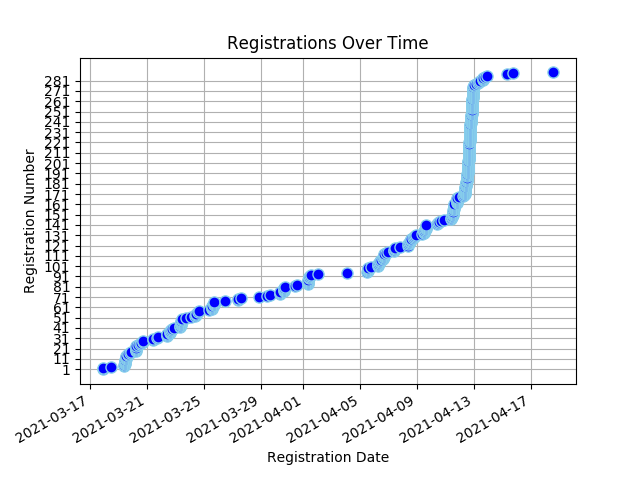
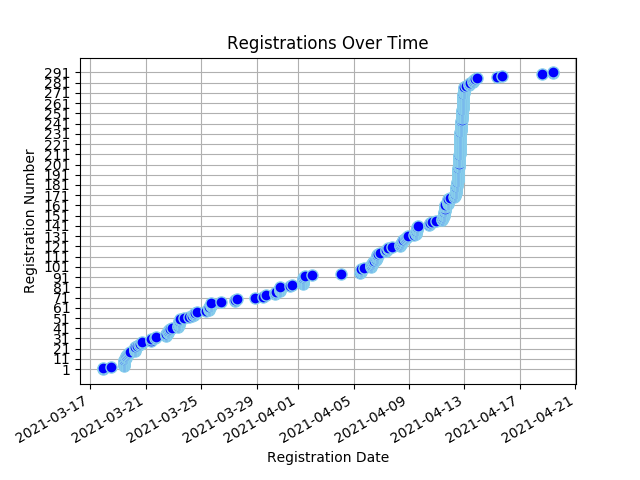
Registree stats backup on Mon 19 Apr 2021 10:15:44 SAST

diff --git a/content/registrees/_index.md b/content/registrees/_index.md
@@ -3,7 +3,7 @@ title: Registration Stats
 draft: false
 ---
 
-<ul><li><strong>Number of Registrees</strong>: 289</li>
+<ul><li><strong>Number of Registrees</strong>: 291</li>
 
 <li><strong>Number of Clubs</strong>: 69</li>
 
@@ -33,6 +33,6 @@ draft: false
         </tr>
     </thead>
     <tbody>
-<tr><td>Natalie Abrahams</td><td>Cape Town</td><td>410W</td></tr><tr><td>Alan Abramsohn</td><td>Milnerton</td><td>410W</td></tr><tr><td>Janine Abramsohn</td><td>Sea Point</td><td>410W</td></tr><tr><td>Rashid Adams</td><td>Athlone</td><td>410W</td></tr><tr><td>Linda Anderson</td><td>George</td><td>410W</td></tr><tr><td>Neale Stewart ANDREWS</td><td>Cowies Hill</td><td>410E</td></tr><tr><td>Linda Baumgarten</td><td>Sea Point</td><td>410W</td></tr><tr><td>Ulrike Behrens</td><td>Windhoek</td><td>410W</td></tr><tr><td>Cathleen Benade</td><td>Rehoboth</td><td>410W</td></tr><tr><td>Valencia Beukes-Williams</td><td>Kuilsriver</td><td>410W</td></tr><tr><td>Belinda Blakeman</td><td>North Durban</td><td>410E</td></tr><tr><td>Mel Boswell</td><td>Nelspruit</td><td>410E</td></tr><tr><td>Lyn(ette) Botha</td><td>Cowies Hill</td><td>410E</td></tr><tr><td>JOSE BRAGA BORGES</td><td>Malmesbury</td><td>410W</td></tr><tr><td>Paul Brauteseth</td><td>Port Shepstone</td><td>410E</td></tr><tr><td>Byron Brooker</td><td>Pretoria South</td><td>410E</td></tr><tr><td>Nelle Buhrmann</td><td>Sea Point</td><td>410W</td></tr><tr><td>Christopher Bull</td><td>The Wilds</td><td>410E</td></tr><tr><td>Karin Byars</td><td>Manzini</td><td>410E</td></tr><tr><td>Herman Cadman</td><td>Stellenbosch</td><td>410W</td></tr><tr><td>Artemis Calomiris</td><td>Helderberg</td><td>410W</td></tr><tr><td>Linda Ann Cannone</td><td>Fish Hoek</td><td>410W</td></tr><tr><td>Petrus Carstens</td><td>Worcester</td><td>410W</td></tr><tr><td>Lizelle Castle</td><td>Athlone</td><td>410W</td></tr><tr><td>Sue Charles</td><td>Tokai</td><td>410W</td></tr><tr><td>Lionel Chazen</td><td>Edenvale</td><td>410E</td></tr><tr><td>Perry Chetty</td><td>East Coast</td><td>410E</td></tr><tr><td>Tanyaradzwa Chinyai</td><td>Groote Schuur</td><td>410W</td></tr><tr><td>Delaney Yeltsin Cloete</td><td>Eden</td><td>410W</td></tr><tr><td>Kate Coppen</td><td>Letaba Tzaneen</td><td>410E</td></tr><tr><td>Esme Cornelius</td><td>Kuilsriver</td><td>410W</td></tr><tr><td>Sharon Cottle</td><td>Groote Schuur</td><td>410W</td></tr><tr><td>Joel d'Offay</td><td>Milnerton</td><td>410W</td></tr><tr><td>Peter Daniel</td><td>Gordons Bay</td><td>410W</td></tr><tr><td>Norma Daniel</td><td>Gordons Bay</td><td>410W</td></tr><tr><td>Melanie Davids</td><td>Alberton</td><td>410E</td></tr><tr><td>Engela de Kock</td><td>Swellendam</td><td>410W</td></tr><tr><td>Francois de Kock</td><td>Swellendam</td><td>410W</td></tr><tr><td>Charlotte de Silva</td><td>Edenvale</td><td>410E</td></tr><tr><td>ANDRE DE VILLIERS</td><td>Malgas</td><td>410W</td></tr><tr><td>Lara De Wet</td><td>Edenvale</td><td>410E</td></tr><tr><td>Benita Diener</td><td>Mitchells Plain</td><td>410W</td></tr><tr><td>Freda Dodd</td><td>Table View</td><td>410W</td></tr><tr><td>Peggy Du Plooy</td><td>Krugersdorp</td><td>410E</td></tr><tr><td>Ivan Du Plooy</td><td>Krugersdorp</td><td>410E</td></tr><tr><td>Tammy du Plooy</td><td>Alberton</td><td>410E</td></tr><tr><td>Marc du Plooy</td><td>Alberton</td><td>410E</td></tr><tr><td>Desiree du Toit</td><td>Ramsgate</td><td>410E</td></tr><tr><td>Hanè Dunn</td><td>Swellendam</td><td>410W</td></tr><tr><td>Glynn Easton</td><td>Helderkruin</td><td>410E</td></tr><tr><td>Denise Easton</td><td>Helderkruin</td><td>410E</td></tr><tr><td>Johan Els</td><td>Wilro Park</td><td>410E</td></tr><tr><td>Fadia Ely</td><td>Athlone</td><td>410W</td></tr><tr><td>Abubakr Ely</td><td>Deep South</td><td>410W</td></tr><tr><td>Freddie Erasmus</td><td>Uitenhage</td><td>410E</td></tr><tr><td>Natalie Etridge</td><td>Sedgefield</td><td>410W</td></tr><tr><td>AIDAN Ewers</td><td>Newlands</td><td>410W</td></tr><tr><td>Roger Fahrbach</td><td>Windhoek</td><td>410W</td></tr><tr><td>Beate Fahrbach</td><td>Windhoek</td><td>410W</td></tr><tr><td>Jules Flanagan</td><td>Tokai</td><td>410W</td></tr><tr><td>Charles Flanagan</td><td>Tokai</td><td>410W</td></tr><tr><td>Jéan Fouché</td><td>Worcester</td><td>410W</td></tr><tr><td>Michele Fourie</td><td>Merriman</td><td>410W</td></tr><tr><td>Lucille Fourie</td><td>Alberton</td><td>410E</td></tr><tr><td>Clive Fox</td><td>Merriman</td><td>410W</td></tr><tr><td>Pat Fox</td><td>Merriman</td><td>410W</td></tr><tr><td>Kelvin Foxcroft</td><td>Helderkruin</td><td>410E</td></tr><tr><td>Jenny Foxcroft</td><td>Helderkruin</td><td>410E</td></tr><tr><td>Katherine Foxcroft</td><td>Helderkruin</td><td>410E</td></tr><tr><td>Martin Froise</td><td>Letaba Tzaneen</td><td>410E</td></tr><tr><td>Allison Georges</td><td>Cape Of Good Hope</td><td>410W</td></tr><tr><td>Bernd Gerhard</td><td>Wilro Park</td><td>410E</td></tr><tr><td>Shirley Gerhard</td><td>Wilro Park</td><td>410E</td></tr><tr><td>Valerie Graham</td><td>Nelspruit</td><td>410E</td></tr><tr><td>Mike Graham</td><td>Nelspruit</td><td>410E</td></tr><tr><td>Viv Grater</td><td>Sedgefield</td><td>410W</td></tr><tr><td>Brian Gray</td><td>Durbanville</td><td>410W</td></tr><tr><td>David Griffith</td><td>The Wilds</td><td>410E</td></tr><tr><td>Matty Grobler</td><td>Henties Bay</td><td>410W</td></tr><tr><td>Christiana Groenewoud</td><td>Milnerton</td><td>410W</td></tr><tr><td>Mattheus Groves</td><td>Sedgefield</td><td>410W</td></tr><tr><td>Glyn Gunter</td><td>Malmesbury</td><td>410W</td></tr><tr><td>Clint Guthrie</td><td>Pretoria South</td><td>410E</td></tr><tr><td>Barbara Haywood</td><td>Eden</td><td>410W</td></tr><tr><td>Mike Heathcote</td><td>Port Shepstone</td><td>410E</td></tr><tr><td>Zarina Hendricks</td><td>Athlone</td><td>410W</td></tr><tr><td>ELIZABETH Hendriks</td><td>Table View</td><td>410W</td></tr><tr><td>MBULELO HERMANUS</td><td>Alberton</td><td>410E</td></tr><tr><td>Evelyn Herzfeld</td><td>Edenvale</td><td>410E</td></tr><tr><td>Dorothy Hess</td><td>Kuilsriver</td><td>410W</td></tr><tr><td>Wendy Higgins</td><td>Wilro Park</td><td>410E</td></tr><tr><td>Avril Hobbs</td><td>North Durban</td><td>410E</td></tr><tr><td>Trevor Hobbs</td><td>North Durban</td><td>410E</td></tr><tr><td>Jacqui Hocking</td><td>Midrand</td><td>410E</td></tr><tr><td>Cliff Hocking</td><td>Midrand</td><td>410E</td></tr><tr><td>Ellen G W Hoffmann</td><td>Windhoek</td><td>410W</td></tr><tr><td>KEITH ALEXANDER HOLLIMAN</td><td>Alberton</td><td>410E</td></tr><tr><td>Liz Houston</td><td>Table View</td><td>410W</td></tr><tr><td>John Houston</td><td>Table View</td><td>410W</td></tr><tr><td>Johan Huysamen</td><td>Malmesbury</td><td>410W</td></tr><tr><td>Alna Jackson</td><td>Pretoria Jakaranda</td><td>410E</td></tr><tr><td>Dawid Jacobs</td><td>Durbanville</td><td>410W</td></tr><tr><td>Jean Jacobs</td><td>Mitchells Plain</td><td>410W</td></tr><tr><td>WOLSLEY Jacobson</td><td>Cape Town</td><td>410W</td></tr><tr><td>Tristan Jeniker</td><td>Merriman</td><td>410W</td></tr><tr><td>MALCOLM JOHNSTON</td><td>Standerton</td><td>410E</td></tr><tr><td>Grant Jonathan</td><td>Gordons Bay</td><td>410W</td></tr><tr><td>Jos Kahn</td><td>Ceres</td><td>410W</td></tr><tr><td>Michelle Kahn</td><td>Sea Point</td><td>410W</td></tr><tr><td>Nico Kaiyamo</td><td>Tsumeb</td><td>410W</td></tr><tr><td>Faezal Karriem</td><td>Worcester</td><td>410W</td></tr><tr><td>Amanda Kemp</td><td>Milnerton</td><td>410W</td></tr><tr><td>Esmeralda Catherine Kennel</td><td>Newlands</td><td>410W</td></tr><tr><td>Jerome Kern</td><td>Groote Schuur</td><td>410W</td></tr><tr><td>Hassan Khan</td><td>Kirstenbosch</td><td>410W</td></tr><tr><td>Faniso Khoza</td><td>The Wilds</td><td>410E</td></tr><tr><td>Margie Kienast</td><td>Edenvale</td><td>410E</td></tr><tr><td>Joyce Kimari</td><td>Eden</td><td>410E</td></tr><tr><td>Ian King</td><td>Alberton</td><td>410E</td></tr><tr><td>Sandy King</td><td>Alberton</td><td>410E</td></tr><tr><td>Christa Koekemoer</td><td>Letaba Tzaneen</td><td>410E</td></tr><tr><td>Alton Koenze</td><td>Worcester</td><td>410W</td></tr><tr><td>Muya Koloko</td><td>Durbanville</td><td>410W</td></tr><tr><td>Zwaai Kruger</td><td>Sedgefield</td><td>410W</td></tr><tr><td>Pieter Kruger</td><td>Wilro Park</td><td>410E</td></tr><tr><td>Niqula Kruger</td><td>Wilro Park</td><td>410E</td></tr><tr><td>Bettina Kröning</td><td>Windhoek</td><td>410W</td></tr><tr><td>Natalie Laas</td><td>Alberton</td><td>410E</td></tr><tr><td>Susan Labuschagne</td><td>Wilro Park</td><td>410E</td></tr><tr><td>Bevil Lakay</td><td>Mitchells Plain</td><td>410W</td></tr><tr><td>Paula Lang</td><td>Gordons Bay</td><td>410W</td></tr><tr><td>Jimmy Lang</td><td>Gordons Bay</td><td>410W</td></tr><tr><td>Elke Langmaak</td><td>Windhoek</td><td>410W</td></tr><tr><td>Kai Langmaak</td><td>Windhoek</td><td>410W</td></tr><tr><td>Evelyn May Langton</td><td>Alberton</td><td>410E</td></tr><tr><td>Herman Laubscher</td><td>Ceres</td><td>410W</td></tr><tr><td>Steven Lautenbach</td><td>Pretoria South</td><td>410E</td></tr><tr><td>leandre layman</td><td>Groote Schuur</td><td>410W</td></tr><tr><td>Jeanette le Roux</td><td>Gonubie</td><td>410E</td></tr><tr><td>Heather Lee</td><td>Cape Of Good Hope</td><td>410W</td></tr><tr><td>Graeme Logan</td><td>Pretoria South</td><td>410E</td></tr><tr><td>Erika Louw</td><td>Durbanville</td><td>410W</td></tr><tr><td>Dee Love</td><td>Cowies Hill</td><td>410E</td></tr><tr><td>Rashmiya Lucas</td><td>Mitchells Plain</td><td>410W</td></tr><tr><td>Zarina Luck</td><td>Newcastle</td><td>410E</td></tr><tr><td>Pam MacRobert</td><td>Groote Schuur</td><td>410W</td></tr><tr><td>Sharon Mangwende</td><td>Cape Town</td><td>410W</td></tr><tr><td>Richard MARCHANT</td><td>The Wilds</td><td>410E</td></tr><tr><td>Beaulieu Mare</td><td>Benoni Lakes</td><td>410E</td></tr><tr><td>Nick Maré</td><td>Benoni Lakes</td><td>410E</td></tr><tr><td>Jean Masson</td><td>Port Shepstone</td><td>410E</td></tr><tr><td>LANCE MAYTHAM</td><td>Swellendam</td><td>410W</td></tr><tr><td>ROSEMARIE MAYTHAM</td><td>Swellendam</td><td>410W</td></tr><tr><td>David Mccullough</td><td>Pretoria South</td><td>410E</td></tr><tr><td>Rochelle McDonald</td><td>Vereeniging</td><td>410E</td></tr><tr><td>Alec McKerrow</td><td>Port Alfred</td><td>410E</td></tr><tr><td>Stuart McPherson</td><td>Newlands</td><td>410W</td></tr><tr><td>Mark Meltzer</td><td>The Wilds</td><td>410E</td></tr><tr><td>Elisa Metz</td><td>Milnerton</td><td>410W</td></tr><tr><td>Denis Meyer</td><td>Port Shepstone</td><td>410E</td></tr><tr><td>Roy Michas</td><td>Midrand</td><td>410E</td></tr><tr><td>Dawn Michas</td><td>Midrand</td><td>410E</td></tr><tr><td>BERNICE MILLS</td><td>Centurion</td><td>410E</td></tr><tr><td>Patrick Mills</td><td>Centurion</td><td>410E</td></tr><tr><td>Cherie Milosevich</td><td>Milnerton</td><td>410W</td></tr><tr><td>Alana Mitchell</td><td>Rustenburg</td><td>410E</td></tr><tr><td>Juan Mitchell</td><td>Rustenburg</td><td>410E</td></tr><tr><td>Virginia Mkhize</td><td>Cape Town</td><td>410W</td></tr><tr><td>Frauke E. Moeller</td><td>Windhoek</td><td>410W</td></tr><tr><td>Bernadine Moses</td><td>Cape Town</td><td>410W</td></tr><tr><td>Brian Mosesd</td><td>Cape Of Good Hope</td><td>410W</td></tr><tr><td>Jacques Mostert</td><td>Merriman</td><td>410W</td></tr><tr><td>Suzanne Murray</td><td>Vereeniging</td><td>410E</td></tr><tr><td>Gary Murray</td><td>Vereeniging</td><td>410E</td></tr><tr><td>Peter Mutschler</td><td>Grootfontein</td><td>410W</td></tr><tr><td>Pieter Myburg</td><td>Wellington</td><td>410W</td></tr><tr><td>Cornette Naude</td><td>Letaba Tzaneen</td><td>410E</td></tr><tr><td>Pieter Nel</td><td>George</td><td>410W</td></tr><tr><td>Tillie Nel</td><td>Eden</td><td>410W</td></tr><tr><td>Theo Nel</td><td>Pretoria South</td><td>410E</td></tr><tr><td>Mike Newlands</td><td>Port Alfred</td><td>410E</td></tr><tr><td>Angela Niehaus</td><td>Bergvliet</td><td>410W</td></tr><tr><td>Rachel Nortjie</td><td>Mitchells Plain</td><td>410W</td></tr><tr><td>PDG Bokkie Oberholzer</td><td>Uitenhage</td><td>410E</td></tr><tr><td>Chris Ocker</td><td>Fish Hoek</td><td>410W</td></tr><tr><td>Jenny Ocker</td><td>Fish Hoek</td><td>410W</td></tr><tr><td>Debra Olivier</td><td>Sedgefield</td><td>410W</td></tr><tr><td>Isabella Stratton Ormandy</td><td>Milnerton</td><td>410W</td></tr><tr><td>Bronwyn Anne Paijmans</td><td>Cowies Hill</td><td>410E</td></tr><tr><td>Teresa Pantoleon</td><td>Vereeniging</td><td>410E</td></tr><tr><td>Maureen Peters</td><td>Ceres</td><td>410W</td></tr><tr><td>Sundru Pillay</td><td>Durbanville</td><td>410W</td></tr><tr><td>Patrick Pillay</td><td>Tygerberg Hills</td><td>410W</td></tr><tr><td>Tracey Polkinghorne</td><td>Kensington</td><td>410E</td></tr><tr><td>Gavin Polkinghorne</td><td>Kensington</td><td>410E</td></tr><tr><td>BRIAN PORTEOUS</td><td>Hibberdene</td><td>410E</td></tr><tr><td>Yvonne  Maureen Poyowe</td><td>Cape Of Good Hope</td><td>410W</td></tr><tr><td>Sheldon Edmund Pretorius</td><td>Merriman</td><td>410W</td></tr><tr><td>Mary-Anne Ras</td><td>Swellendam</td><td>410W</td></tr><tr><td>Leon Jacobus Ras</td><td>Swellendam</td><td>410E</td></tr><tr><td>Hugo Reniers</td><td>Nelspruit</td><td>410E</td></tr><tr><td>Sandy Roman</td><td>Bergvliet</td><td>410W</td></tr><tr><td>Mark Rossouw</td><td>Tokai</td><td>410W</td></tr><tr><td>Andrea Rothner</td><td>Eden</td><td>410W</td></tr><tr><td>Anthonie Petrus Roux</td><td>Moorreesburg</td><td>410W</td></tr><tr><td>Ingrid Russell</td><td>Fish Hoek</td><td>410W</td></tr><tr><td>Rodney Sabatier</td><td>Letaba Tzaneen</td><td>410E</td></tr><tr><td>Sharon Sampie</td><td>Bergvliet</td><td>410W</td></tr><tr><td>Vera Schatz</td><td>Windhoek</td><td>410W</td></tr><tr><td>Frank Schatz</td><td>Windhoek</td><td>410W</td></tr><tr><td>Francis Searle</td><td>Kouga</td><td>410E</td></tr><tr><td>Gloria Searle</td><td>Kouga</td><td>410E</td></tr><tr><td>Ami Sell</td><td>Windhoek</td><td>410W</td></tr><tr><td>Beryl Simpson</td><td>Cape Town</td><td>410W</td></tr><tr><td>Kenlis Sircoulomb</td><td>Windhoek</td><td>410W</td></tr><tr><td>Holger Sircoulomb</td><td>Windhoek</td><td>410W</td></tr><tr><td>Hennie Smeer</td><td>Windhoek</td><td>410W</td></tr><tr><td>Sue Smit</td><td>Centurion</td><td>410E</td></tr><tr><td>Herman Smit</td><td>Swellendam</td><td>410W</td></tr><tr><td>Santie Smit</td><td>Durbanville</td><td>410W</td></tr><tr><td>Jeff Smith</td><td>Port Shepstone</td><td>410E</td></tr><tr><td>Bennie Smith</td><td>Wellington</td><td>410W</td></tr><tr><td>Carmen Dolores Smith</td><td>Tokai</td><td>410W</td></tr><tr><td>David John Smith</td><td>Tokai</td><td>410W</td></tr><tr><td>LYN SNYMAN</td><td>Deep South</td><td>410W</td></tr><tr><td>Diana Sochen</td><td>Sea Point</td><td>410W</td></tr><tr><td>Max Stander</td><td>Port Alfred</td><td>410E</td></tr><tr><td>Ashley Stander</td><td>Krugersdorp</td><td>410E</td></tr><tr><td>Brett Jason Stander</td><td>Krugersdorp</td><td>410E</td></tr><tr><td>TIM STEENBERG</td><td>Wellington</td><td>410W</td></tr><tr><td>Elna Steyn</td><td>Wilro Park</td><td>410E</td></tr><tr><td>RORY stier</td><td>Deep South</td><td>410W</td></tr><tr><td>Patrick Strauss</td><td>Kuilsriver</td><td>410W</td></tr><tr><td>Trevor Sturges</td><td>Midrand</td><td>410E</td></tr><tr><td>Lauryn Talbot</td><td>Benoni Lakes</td><td>410E</td></tr><tr><td>Margaret Thackwell</td><td>Table View</td><td>410W</td></tr><tr><td>Pierre Theron</td><td>Midrand</td><td>410E</td></tr><tr><td>Moira Theron</td><td>Midrand</td><td>410E</td></tr><tr><td>Diane Townsend</td><td>Benoni Lakes</td><td>410E</td></tr><tr><td>Omolayo Toye</td><td>The Wilds</td><td>410E</td></tr><tr><td>David Alex Tshikala</td><td>Athlone</td><td>410W</td></tr><tr><td>Alistair Tuckett</td><td>Roodepoort Clearwater Cyber</td><td>410E</td></tr><tr><td>Rowan Tuckett</td><td>Roodepoort Clearwater Cyber</td><td>410E</td></tr><tr><td>Gail Tuckett</td><td>Roodepoort Clearwater Cyber</td><td>410E</td></tr><tr><td>Jiri Uchytil</td><td>Alberton</td><td>410E</td></tr><tr><td>Tracy Valadao</td><td>Midrand</td><td>410E</td></tr><tr><td>Carl van Blerk</td><td>Eden</td><td>410W</td></tr><tr><td>HILARY LISE VAN BREDA</td><td>Cape Town</td><td>410W</td></tr><tr><td>Marina Van de Merwe</td><td>Malmesbury</td><td>410W</td></tr><tr><td>Ingrid van der Merwe</td><td>Letaba Tzaneen</td><td>410E</td></tr><tr><td>PATRICIA VAN DER MERWE</td><td>East London Port Rex</td><td>410E</td></tr><tr><td>MARINA VAN DER MERWE</td><td>Malmesbury</td><td>410W</td></tr><tr><td>Hennie van der Westhuizen</td><td>Helderberg</td><td>410W</td></tr><tr><td>Sydney van Heerden</td><td>Wilro Park</td><td>410E</td></tr><tr><td>Sandy van Heerden</td><td>Wilro Park</td><td>410E</td></tr><tr><td>Craig van Heerden</td><td>East London Beacon Bay</td><td>410E</td></tr><tr><td>Mark van Heerden</td><td>Pretoria South</td><td>410E</td></tr><tr><td>Riaan Van Niekerk</td><td>Pretoria South</td><td>410E</td></tr><tr><td>Neville Van Rensburg</td><td>Moorreesburg</td><td>410W</td></tr><tr><td>Johan van Rensburg</td><td>Windhoek</td><td>410W</td></tr><tr><td>Anne van Rensburg</td><td>Windhoek</td><td>410W</td></tr><tr><td>Lorna Van Romburgh</td><td>Fish Hoek</td><td>410W</td></tr><tr><td>Jeannie van Wulven</td><td>Tygerberg Hills</td><td>410W</td></tr><tr><td>Alan van Wulven</td><td>Tygerberg Hills</td><td>410W</td></tr><tr><td>Deon van Wulven</td><td>Tygerberg Hills</td><td>410W</td></tr><tr><td>Kim van Wyk</td><td>North Durban</td><td>410E</td></tr><tr><td>Lindie van Wyk</td><td>Pretoria Jakaranda</td><td>410E</td></tr><tr><td>Willem van Wyk</td><td>Midrand</td><td>410E</td></tr><tr><td>Patricia van Wyk</td><td>Pretoria Jakaranda</td><td>410E</td></tr><tr><td>Edith Van Wyk-Nelson</td><td>Kuilsriver</td><td>410W</td></tr><tr><td>Louis Venter</td><td>Letaba Tzaneen</td><td>410E</td></tr><tr><td>Russell Volker</td><td>King William's Town</td><td>410E</td></tr><tr><td>Brian von der Decken</td><td>King William's Town</td><td>410E</td></tr><tr><td>Rinette Von Mollendorf</td><td>Durbanville</td><td>410W</td></tr><tr><td>Rochelle Vorster</td><td>Sedgefield</td><td>410W</td></tr><tr><td>Alastair Warman</td><td>Port Shepstone</td><td>410E</td></tr><tr><td>Allan Watson</td><td>Sea Point</td><td>410W</td></tr><tr><td>Alison Watson</td><td>Sedgefield</td><td>410W</td></tr><tr><td>Johanna Williams</td><td>Mitchells Plain</td><td>410W</td></tr><tr><td>Neville Williamson</td><td>Port Alfred</td><td>410E</td></tr><tr><td>Geila Wills</td><td>Athlone</td><td>410W</td></tr><tr><td>Meredith Wilter-Sturges</td><td>Midrand</td><td>410E</td></tr><tr><td>Joan Woodman</td><td>Mitchells Plain</td><td>410W</td></tr><tr><td>Rocky Wright</td><td>Table View</td><td>410W</td></tr><tr><td>Judy Young</td><td>Durbanville</td><td>410W</td></tr><tr><td>Gerry Young</td><td>Mitchells Plain</td><td>410W</td></tr><tr><td>Leonie Zucker</td><td>Milnerton</td><td>410W</td></tr><tr><td>Leonie Zucker</td><td>Milnerton</td><td>410E</td></tr><tr><td>Michelle ‘t Hart</td><td>Benoni Lakes</td><td>410E</td></tr>
+<tr><td>Natalie Abrahams</td><td>Cape Town</td><td>410W</td></tr><tr><td>Alan Abramsohn</td><td>Milnerton</td><td>410W</td></tr><tr><td>Janine Abramsohn</td><td>Sea Point</td><td>410W</td></tr><tr><td>Rashid Adams</td><td>Athlone</td><td>410W</td></tr><tr><td>Linda Anderson</td><td>George</td><td>410W</td></tr><tr><td>Neale Stewart ANDREWS</td><td>Cowies Hill</td><td>410E</td></tr><tr><td>Linda Baumgarten</td><td>Sea Point</td><td>410W</td></tr><tr><td>Ulrike Behrens</td><td>Windhoek</td><td>410W</td></tr><tr><td>Cathleen Benade</td><td>Rehoboth</td><td>410W</td></tr><tr><td>Valencia Beukes-Williams</td><td>Kuilsriver</td><td>410W</td></tr><tr><td>Belinda Blakeman</td><td>North Durban</td><td>410E</td></tr><tr><td>Mel Boswell</td><td>Nelspruit</td><td>410E</td></tr><tr><td>Lyn(ette) Botha</td><td>Cowies Hill</td><td>410E</td></tr><tr><td>JOSE BRAGA BORGES</td><td>Malmesbury</td><td>410W</td></tr><tr><td>Paul Brauteseth</td><td>Port Shepstone</td><td>410E</td></tr><tr><td>Byron Brooker</td><td>Pretoria South</td><td>410E</td></tr><tr><td>Nelle Buhrmann</td><td>Sea Point</td><td>410W</td></tr><tr><td>Christopher Bull</td><td>The Wilds</td><td>410E</td></tr><tr><td>Karin Byars</td><td>Manzini</td><td>410E</td></tr><tr><td>Herman Cadman</td><td>Stellenbosch</td><td>410W</td></tr><tr><td>Artemis Calomiris</td><td>Helderberg</td><td>410W</td></tr><tr><td>Linda Ann Cannone</td><td>Fish Hoek</td><td>410W</td></tr><tr><td>Petrus Carstens</td><td>Worcester</td><td>410W</td></tr><tr><td>Lizelle Castle</td><td>Athlone</td><td>410W</td></tr><tr><td>Sue Charles</td><td>Tokai</td><td>410W</td></tr><tr><td>Lionel Chazen</td><td>Edenvale</td><td>410E</td></tr><tr><td>Perry Chetty</td><td>East Coast</td><td>410E</td></tr><tr><td>Tanyaradzwa Chinyai</td><td>Groote Schuur</td><td>410W</td></tr><tr><td>Delaney Yeltsin Cloete</td><td>Eden</td><td>410W</td></tr><tr><td>Kate Coppen</td><td>Letaba Tzaneen</td><td>410E</td></tr><tr><td>Esme Cornelius</td><td>Kuilsriver</td><td>410W</td></tr><tr><td>Sharon Cottle</td><td>Groote Schuur</td><td>410W</td></tr><tr><td>Joel d'Offay</td><td>Milnerton</td><td>410W</td></tr><tr><td>Peter Daniel</td><td>Gordons Bay</td><td>410W</td></tr><tr><td>Norma Daniel</td><td>Gordons Bay</td><td>410W</td></tr><tr><td>Melanie Davids</td><td>Alberton</td><td>410E</td></tr><tr><td>Engela de Kock</td><td>Swellendam</td><td>410W</td></tr><tr><td>Francois de Kock</td><td>Swellendam</td><td>410W</td></tr><tr><td>Charlotte de Silva</td><td>Edenvale</td><td>410E</td></tr><tr><td>ANDRE DE VILLIERS</td><td>Malgas</td><td>410W</td></tr><tr><td>Lara De Wet</td><td>Edenvale</td><td>410E</td></tr><tr><td>Benita Diener</td><td>Mitchells Plain</td><td>410W</td></tr><tr><td>Freda Dodd</td><td>Table View</td><td>410W</td></tr><tr><td>Peggy Du Plooy</td><td>Krugersdorp</td><td>410E</td></tr><tr><td>Ivan Du Plooy</td><td>Krugersdorp</td><td>410E</td></tr><tr><td>Tammy du Plooy</td><td>Alberton</td><td>410E</td></tr><tr><td>Marc du Plooy</td><td>Alberton</td><td>410E</td></tr><tr><td>Desiree du Toit</td><td>Ramsgate</td><td>410E</td></tr><tr><td>Hanè Dunn</td><td>Swellendam</td><td>410W</td></tr><tr><td>Glynn Easton</td><td>Helderkruin</td><td>410E</td></tr><tr><td>Denise Easton</td><td>Helderkruin</td><td>410E</td></tr><tr><td>Johan Els</td><td>Wilro Park</td><td>410E</td></tr><tr><td>Fadia Ely</td><td>Athlone</td><td>410W</td></tr><tr><td>Abubakr Ely</td><td>Deep South</td><td>410W</td></tr><tr><td>Freddie Erasmus</td><td>Uitenhage</td><td>410E</td></tr><tr><td>Natalie Etridge</td><td>Sedgefield</td><td>410W</td></tr><tr><td>AIDAN Ewers</td><td>Newlands</td><td>410W</td></tr><tr><td>Roger Fahrbach</td><td>Windhoek</td><td>410W</td></tr><tr><td>Beate Fahrbach</td><td>Windhoek</td><td>410W</td></tr><tr><td>Jules Flanagan</td><td>Tokai</td><td>410W</td></tr><tr><td>Charles Flanagan</td><td>Tokai</td><td>410W</td></tr><tr><td>Jéan Fouché</td><td>Worcester</td><td>410W</td></tr><tr><td>Michele Fourie</td><td>Merriman</td><td>410W</td></tr><tr><td>Lucille Fourie</td><td>Alberton</td><td>410E</td></tr><tr><td>Clive Fox</td><td>Merriman</td><td>410W</td></tr><tr><td>Pat Fox</td><td>Merriman</td><td>410W</td></tr><tr><td>Kelvin Foxcroft</td><td>Helderkruin</td><td>410E</td></tr><tr><td>Jenny Foxcroft</td><td>Helderkruin</td><td>410E</td></tr><tr><td>Katherine Foxcroft</td><td>Helderkruin</td><td>410E</td></tr><tr><td>Martin Froise</td><td>Letaba Tzaneen</td><td>410E</td></tr><tr><td>Allison Georges</td><td>Cape Of Good Hope</td><td>410W</td></tr><tr><td>Bernd Gerhard</td><td>Wilro Park</td><td>410E</td></tr><tr><td>Shirley Gerhard</td><td>Wilro Park</td><td>410E</td></tr><tr><td>Valerie Graham</td><td>Nelspruit</td><td>410E</td></tr><tr><td>Mike Graham</td><td>Nelspruit</td><td>410E</td></tr><tr><td>Viv Grater</td><td>Sedgefield</td><td>410W</td></tr><tr><td>Brian Gray</td><td>Durbanville</td><td>410W</td></tr><tr><td>David Griffith</td><td>The Wilds</td><td>410E</td></tr><tr><td>Matty Grobler</td><td>Henties Bay</td><td>410W</td></tr><tr><td>Christiana Groenewoud</td><td>Milnerton</td><td>410W</td></tr><tr><td>Mattheus Groves</td><td>Sedgefield</td><td>410W</td></tr><tr><td>Glyn Gunter</td><td>Malmesbury</td><td>410W</td></tr><tr><td>Clint Guthrie</td><td>Pretoria South</td><td>410E</td></tr><tr><td>Barbara Haywood</td><td>Eden</td><td>410W</td></tr><tr><td>Mike Heathcote</td><td>Port Shepstone</td><td>410E</td></tr><tr><td>Zarina Hendricks</td><td>Athlone</td><td>410W</td></tr><tr><td>ELIZABETH Hendriks</td><td>Table View</td><td>410W</td></tr><tr><td>MBULELO HERMANUS</td><td>Alberton</td><td>410E</td></tr><tr><td>Evelyn Herzfeld</td><td>Edenvale</td><td>410E</td></tr><tr><td>Dorothy Hess</td><td>Kuilsriver</td><td>410W</td></tr><tr><td>Wendy Higgins</td><td>Wilro Park</td><td>410E</td></tr><tr><td>Avril Hobbs</td><td>North Durban</td><td>410E</td></tr><tr><td>Trevor Hobbs</td><td>North Durban</td><td>410E</td></tr><tr><td>Jacqui Hocking</td><td>Midrand</td><td>410E</td></tr><tr><td>Cliff Hocking</td><td>Midrand</td><td>410E</td></tr><tr><td>Ellen G W Hoffmann</td><td>Windhoek</td><td>410W</td></tr><tr><td>KEITH ALEXANDER HOLLIMAN</td><td>Alberton</td><td>410E</td></tr><tr><td>Liz Houston</td><td>Table View</td><td>410W</td></tr><tr><td>John Houston</td><td>Table View</td><td>410W</td></tr><tr><td>Johan Huysamen</td><td>Malmesbury</td><td>410W</td></tr><tr><td>Alna Jackson</td><td>Pretoria Jakaranda</td><td>410E</td></tr><tr><td>Dawid Jacobs</td><td>Durbanville</td><td>410W</td></tr><tr><td>Jean Jacobs</td><td>Mitchells Plain</td><td>410W</td></tr><tr><td>WOLSLEY Jacobson</td><td>Cape Town</td><td>410W</td></tr><tr><td>Tristan Jeniker</td><td>Merriman</td><td>410W</td></tr><tr><td>MALCOLM JOHNSTON</td><td>Standerton</td><td>410E</td></tr><tr><td>Grant Jonathan</td><td>Gordons Bay</td><td>410W</td></tr><tr><td>Jos Kahn</td><td>Ceres</td><td>410W</td></tr><tr><td>Michelle Kahn</td><td>Sea Point</td><td>410W</td></tr><tr><td>Nico Kaiyamo</td><td>Tsumeb</td><td>410W</td></tr><tr><td>Faezal Karriem</td><td>Worcester</td><td>410W</td></tr><tr><td>Amanda Kemp</td><td>Milnerton</td><td>410W</td></tr><tr><td>Esmeralda Catherine Kennel</td><td>Newlands</td><td>410W</td></tr><tr><td>Jerome Kern</td><td>Groote Schuur</td><td>410W</td></tr><tr><td>Hassan Khan</td><td>Kirstenbosch</td><td>410W</td></tr><tr><td>Faniso Khoza</td><td>The Wilds</td><td>410E</td></tr><tr><td>Margie Kienast</td><td>Edenvale</td><td>410E</td></tr><tr><td>Joyce Kimari</td><td>Eden</td><td>410E</td></tr><tr><td>Ian King</td><td>Alberton</td><td>410E</td></tr><tr><td>Sandy King</td><td>Alberton</td><td>410E</td></tr><tr><td>Christa Koekemoer</td><td>Letaba Tzaneen</td><td>410E</td></tr><tr><td>Alton Koenze</td><td>Worcester</td><td>410W</td></tr><tr><td>Muya Koloko</td><td>Durbanville</td><td>410W</td></tr><tr><td>Zwaai Kruger</td><td>Sedgefield</td><td>410W</td></tr><tr><td>Pieter Kruger</td><td>Wilro Park</td><td>410E</td></tr><tr><td>Niqula Kruger</td><td>Wilro Park</td><td>410E</td></tr><tr><td>Bettina Kröning</td><td>Windhoek</td><td>410W</td></tr><tr><td>Natalie Laas</td><td>Alberton</td><td>410E</td></tr><tr><td>Susan Labuschagne</td><td>Wilro Park</td><td>410E</td></tr><tr><td>Bevil Lakay</td><td>Mitchells Plain</td><td>410W</td></tr><tr><td>Paula Lang</td><td>Gordons Bay</td><td>410W</td></tr><tr><td>Jimmy Lang</td><td>Gordons Bay</td><td>410W</td></tr><tr><td>Elke Langmaak</td><td>Windhoek</td><td>410W</td></tr><tr><td>Kai Langmaak</td><td>Windhoek</td><td>410W</td></tr><tr><td>Evelyn May Langton</td><td>Alberton</td><td>410E</td></tr><tr><td>Herman Laubscher</td><td>Ceres</td><td>410W</td></tr><tr><td>Steven Lautenbach</td><td>Pretoria South</td><td>410E</td></tr><tr><td>leandre layman</td><td>Groote Schuur</td><td>410W</td></tr><tr><td>Jeanette le Roux</td><td>Gonubie</td><td>410E</td></tr><tr><td>Heather Lee</td><td>Cape Of Good Hope</td><td>410W</td></tr><tr><td>Graeme Logan</td><td>Pretoria South</td><td>410E</td></tr><tr><td>Erika Louw</td><td>Durbanville</td><td>410W</td></tr><tr><td>Dee Love</td><td>Cowies Hill</td><td>410E</td></tr><tr><td>Rashmiya Lucas</td><td>Mitchells Plain</td><td>410W</td></tr><tr><td>Zarina Luck</td><td>Newcastle</td><td>410E</td></tr><tr><td>Pam MacRobert</td><td>Groote Schuur</td><td>410W</td></tr><tr><td>Sharon Mangwende</td><td>Cape Town</td><td>410W</td></tr><tr><td>Richard MARCHANT</td><td>The Wilds</td><td>410E</td></tr><tr><td>Beaulieu Mare</td><td>Benoni Lakes</td><td>410E</td></tr><tr><td>Nick Maré</td><td>Benoni Lakes</td><td>410E</td></tr><tr><td>Jean Masson</td><td>Port Shepstone</td><td>410E</td></tr><tr><td>LANCE MAYTHAM</td><td>Swellendam</td><td>410W</td></tr><tr><td>ROSEMARIE MAYTHAM</td><td>Swellendam</td><td>410W</td></tr><tr><td>David Mccullough</td><td>Pretoria South</td><td>410E</td></tr><tr><td>Rochelle McDonald</td><td>Vereeniging</td><td>410E</td></tr><tr><td>Alec McKerrow</td><td>Port Alfred</td><td>410E</td></tr><tr><td>Stuart McPherson</td><td>Newlands</td><td>410W</td></tr><tr><td>Mark Meltzer</td><td>The Wilds</td><td>410E</td></tr><tr><td>Elisa Metz</td><td>Milnerton</td><td>410W</td></tr><tr><td>Denis Meyer</td><td>Port Shepstone</td><td>410E</td></tr><tr><td>Roy Michas</td><td>Midrand</td><td>410E</td></tr><tr><td>Dawn Michas</td><td>Midrand</td><td>410E</td></tr><tr><td>BERNICE MILLS</td><td>Centurion</td><td>410E</td></tr><tr><td>Patrick Mills</td><td>Centurion</td><td>410E</td></tr><tr><td>Cherie Milosevich</td><td>Milnerton</td><td>410W</td></tr><tr><td>Alana Mitchell</td><td>Rustenburg</td><td>410E</td></tr><tr><td>Juan Mitchell</td><td>Rustenburg</td><td>410E</td></tr><tr><td>Virginia Mkhize</td><td>Cape Town</td><td>410W</td></tr><tr><td>Frauke E. Moeller</td><td>Windhoek</td><td>410W</td></tr><tr><td>Bernadine Moses</td><td>Cape Town</td><td>410W</td></tr><tr><td>Brian Mosesd</td><td>Cape Of Good Hope</td><td>410W</td></tr><tr><td>Jacques Mostert</td><td>Merriman</td><td>410W</td></tr><tr><td>Suzanne Murray</td><td>Vereeniging</td><td>410E</td></tr><tr><td>Gary Murray</td><td>Vereeniging</td><td>410E</td></tr><tr><td>Peter Mutschler</td><td>Grootfontein</td><td>410W</td></tr><tr><td>Pieter Myburg</td><td>Wellington</td><td>410W</td></tr><tr><td>Cornette Naude</td><td>Letaba Tzaneen</td><td>410E</td></tr><tr><td>Pieter Nel</td><td>George</td><td>410W</td></tr><tr><td>Tillie Nel</td><td>Eden</td><td>410W</td></tr><tr><td>Theo Nel</td><td>Pretoria South</td><td>410E</td></tr><tr><td>Mike Newlands</td><td>Port Alfred</td><td>410E</td></tr><tr><td>Sphiwe Ngobozana</td><td>Centurion</td><td>410E</td></tr><tr><td>Angela Niehaus</td><td>Bergvliet</td><td>410W</td></tr><tr><td>Rachel Nortjie</td><td>Mitchells Plain</td><td>410W</td></tr><tr><td>PDG Bokkie Oberholzer</td><td>Uitenhage</td><td>410E</td></tr><tr><td>Chris Ocker</td><td>Fish Hoek</td><td>410W</td></tr><tr><td>Jenny Ocker</td><td>Fish Hoek</td><td>410W</td></tr><tr><td>Debra Olivier</td><td>Sedgefield</td><td>410W</td></tr><tr><td>Isabella Stratton Ormandy</td><td>Milnerton</td><td>410W</td></tr><tr><td>Bronwyn Anne Paijmans</td><td>Cowies Hill</td><td>410E</td></tr><tr><td>Teresa Pantoleon</td><td>Vereeniging</td><td>410E</td></tr><tr><td>Maureen Peters</td><td>Ceres</td><td>410W</td></tr><tr><td>Sundru Pillay</td><td>Durbanville</td><td>410W</td></tr><tr><td>Patrick Pillay</td><td>Tygerberg Hills</td><td>410W</td></tr><tr><td>Tracey Polkinghorne</td><td>Kensington</td><td>410E</td></tr><tr><td>Gavin Polkinghorne</td><td>Kensington</td><td>410E</td></tr><tr><td>BRIAN PORTEOUS</td><td>Hibberdene</td><td>410E</td></tr><tr><td>Yvonne  Maureen Poyowe</td><td>Cape Of Good Hope</td><td>410W</td></tr><tr><td>Sheldon Edmund Pretorius</td><td>Merriman</td><td>410W</td></tr><tr><td>Mary-Anne Ras</td><td>Swellendam</td><td>410W</td></tr><tr><td>Leon Jacobus Ras</td><td>Swellendam</td><td>410E</td></tr><tr><td>Hugo Reniers</td><td>Nelspruit</td><td>410E</td></tr><tr><td>Sandy Roman</td><td>Bergvliet</td><td>410W</td></tr><tr><td>Mark Rossouw</td><td>Tokai</td><td>410W</td></tr><tr><td>Andrea Rothner</td><td>Eden</td><td>410W</td></tr><tr><td>Anthonie Petrus Roux</td><td>Moorreesburg</td><td>410W</td></tr><tr><td>Ingrid Russell</td><td>Fish Hoek</td><td>410W</td></tr><tr><td>Rodney Sabatier</td><td>Letaba Tzaneen</td><td>410E</td></tr><tr><td>Sharon Sampie</td><td>Bergvliet</td><td>410W</td></tr><tr><td>Vera Schatz</td><td>Windhoek</td><td>410W</td></tr><tr><td>Frank Schatz</td><td>Windhoek</td><td>410W</td></tr><tr><td>Francis Searle</td><td>Kouga</td><td>410E</td></tr><tr><td>Gloria Searle</td><td>Kouga</td><td>410E</td></tr><tr><td>Ami Sell</td><td>Windhoek</td><td>410W</td></tr><tr><td>Beryl Simpson</td><td>Cape Town</td><td>410W</td></tr><tr><td>Kenlis Sircoulomb</td><td>Windhoek</td><td>410W</td></tr><tr><td>Holger Sircoulomb</td><td>Windhoek</td><td>410W</td></tr><tr><td>Hennie Smeer</td><td>Windhoek</td><td>410W</td></tr><tr><td>Sue Smit</td><td>Centurion</td><td>410E</td></tr><tr><td>Herman Smit</td><td>Swellendam</td><td>410W</td></tr><tr><td>Santie Smit</td><td>Durbanville</td><td>410W</td></tr><tr><td>Jeff Smith</td><td>Port Shepstone</td><td>410E</td></tr><tr><td>Bennie Smith</td><td>Wellington</td><td>410W</td></tr><tr><td>Carmen Dolores Smith</td><td>Tokai</td><td>410W</td></tr><tr><td>David John Smith</td><td>Tokai</td><td>410W</td></tr><tr><td>LYN SNYMAN</td><td>Deep South</td><td>410W</td></tr><tr><td>Diana Sochen</td><td>Sea Point</td><td>410W</td></tr><tr><td>Max Stander</td><td>Port Alfred</td><td>410E</td></tr><tr><td>Ashley Stander</td><td>Krugersdorp</td><td>410E</td></tr><tr><td>Brett Jason Stander</td><td>Krugersdorp</td><td>410E</td></tr><tr><td>TIM STEENBERG</td><td>Wellington</td><td>410W</td></tr><tr><td>Elna Steyn</td><td>Wilro Park</td><td>410E</td></tr><tr><td>RORY stier</td><td>Deep South</td><td>410W</td></tr><tr><td>Patrick Strauss</td><td>Kuilsriver</td><td>410W</td></tr><tr><td>Trevor Sturges</td><td>Midrand</td><td>410E</td></tr><tr><td>Lauryn Talbot</td><td>Benoni Lakes</td><td>410E</td></tr><tr><td>Margaret Thackwell</td><td>Table View</td><td>410W</td></tr><tr><td>Pierre Theron</td><td>Midrand</td><td>410E</td></tr><tr><td>Moira Theron</td><td>Midrand</td><td>410E</td></tr><tr><td>Diane Townsend</td><td>Benoni Lakes</td><td>410E</td></tr><tr><td>Omolayo Toye</td><td>The Wilds</td><td>410E</td></tr><tr><td>David Alex Tshikala</td><td>Athlone</td><td>410W</td></tr><tr><td>Alistair Tuckett</td><td>Roodepoort Clearwater Cyber</td><td>410E</td></tr><tr><td>Rowan Tuckett</td><td>Roodepoort Clearwater Cyber</td><td>410E</td></tr><tr><td>Gail Tuckett</td><td>Roodepoort Clearwater Cyber</td><td>410E</td></tr><tr><td>Jiri Uchytil</td><td>Alberton</td><td>410E</td></tr><tr><td>Tracy Valadao</td><td>Midrand</td><td>410E</td></tr><tr><td>Carl van Blerk</td><td>Eden</td><td>410W</td></tr><tr><td>HILARY LISE VAN BREDA</td><td>Cape Town</td><td>410W</td></tr><tr><td>Marina Van de Merwe</td><td>Malmesbury</td><td>410W</td></tr><tr><td>Ingrid van der Merwe</td><td>Letaba Tzaneen</td><td>410E</td></tr><tr><td>PATRICIA VAN DER MERWE</td><td>East London Port Rex</td><td>410E</td></tr><tr><td>MARINA VAN DER MERWE</td><td>Malmesbury</td><td>410W</td></tr><tr><td>Hennie van der Westhuizen</td><td>Helderberg</td><td>410W</td></tr><tr><td>Sydney van Heerden</td><td>Wilro Park</td><td>410E</td></tr><tr><td>Sandy van Heerden</td><td>Wilro Park</td><td>410E</td></tr><tr><td>Craig van Heerden</td><td>East London Beacon Bay</td><td>410E</td></tr><tr><td>Mark van Heerden</td><td>Pretoria South</td><td>410E</td></tr><tr><td>Riaan Van Niekerk</td><td>Pretoria South</td><td>410E</td></tr><tr><td>Hilgardt Van Nieuwenhuyzen</td><td>Worcester</td><td>410E</td></tr><tr><td>Neville Van Rensburg</td><td>Moorreesburg</td><td>410W</td></tr><tr><td>Johan van Rensburg</td><td>Windhoek</td><td>410W</td></tr><tr><td>Anne van Rensburg</td><td>Windhoek</td><td>410W</td></tr><tr><td>Lorna Van Romburgh</td><td>Fish Hoek</td><td>410W</td></tr><tr><td>Jeannie van Wulven</td><td>Tygerberg Hills</td><td>410W</td></tr><tr><td>Alan van Wulven</td><td>Tygerberg Hills</td><td>410W</td></tr><tr><td>Deon van Wulven</td><td>Tygerberg Hills</td><td>410W</td></tr><tr><td>Kim van Wyk</td><td>North Durban</td><td>410E</td></tr><tr><td>Lindie van Wyk</td><td>Pretoria Jakaranda</td><td>410E</td></tr><tr><td>Willem van Wyk</td><td>Midrand</td><td>410E</td></tr><tr><td>Patricia van Wyk</td><td>Pretoria Jakaranda</td><td>410E</td></tr><tr><td>Edith Van Wyk-Nelson</td><td>Kuilsriver</td><td>410W</td></tr><tr><td>Louis Venter</td><td>Letaba Tzaneen</td><td>410E</td></tr><tr><td>Russell Volker</td><td>King William's Town</td><td>410E</td></tr><tr><td>Brian von der Decken</td><td>King William's Town</td><td>410E</td></tr><tr><td>Rinette Von Mollendorf</td><td>Durbanville</td><td>410W</td></tr><tr><td>Rochelle Vorster</td><td>Sedgefield</td><td>410W</td></tr><tr><td>Alastair Warman</td><td>Port Shepstone</td><td>410E</td></tr><tr><td>Allan Watson</td><td>Sea Point</td><td>410W</td></tr><tr><td>Alison Watson</td><td>Sedgefield</td><td>410W</td></tr><tr><td>Johanna Williams</td><td>Mitchells Plain</td><td>410W</td></tr><tr><td>Neville Williamson</td><td>Port Alfred</td><td>410E</td></tr><tr><td>Geila Wills</td><td>Athlone</td><td>410W</td></tr><tr><td>Meredith Wilter-Sturges</td><td>Midrand</td><td>410E</td></tr><tr><td>Joan Woodman</td><td>Mitchells Plain</td><td>410W</td></tr><tr><td>Rocky Wright</td><td>Table View</td><td>410W</td></tr><tr><td>Judy Young</td><td>Durbanville</td><td>410W</td></tr><tr><td>Gerry Young</td><td>Mitchells Plain</td><td>410W</td></tr><tr><td>Leonie Zucker</td><td>Milnerton</td><td>410W</td></tr><tr><td>Leonie Zucker</td><td>Milnerton</td><td>410E</td></tr><tr><td>Michelle ‘t Hart</td><td>Benoni Lakes</td><td>410E</td></tr>
 </tbody>
 </table>

diff --git a/content/full_stats/_index.md b/content/full_stats/_index.md
@@ -17,16 +17,16 @@ draft: false
 <body>
 <h1 style="color: #000000;">Full Registration Stats</h1>
 <a href="/docs/registrees_list.xlsx">Download Registrees Excel File</a>
-<ul><li><strong>Number of Registrees</strong>: 289</li>
+<ul><li><strong>Number of Registrees</strong>: 291</li>
 <li><strong>Number of Clubs</strong>: 69</li>
 <li><strong>Club With Most Attendees</strong>: Windhoek (16 registrees)</li>
 
 <li><strong>Number of District 410W Convention Attendees</strong>: 147</li>
 <li><strong>Number of District 410W Convention Voters</strong>: 67</li>
-<li><strong>Number of District 410E Convention Attendees</strong>: 121</li>
+<li><strong>Number of District 410E Convention Attendees</strong>: 123</li>
 <li><strong>Number of District 410E Convention Voters</strong>: 60</li>
 
-<li><strong>Number of MD410 Convention Attendees</strong>: 230</li>
+<li><strong>Number of MD410 Convention Attendees</strong>: 232</li>
 <li><strong>Number of MD410 Convention Voters</strong>: 109</li>
 
 </ul>
@@ -2053,6 +2053,17 @@ draft: false
 </tr>
 
     
+<td>334</td>
+<td>Sphiwe Ngobozana</td>
+<td>Centurion</td>
+<td>410E</td>
+<td>No</td>
+<td style="background-color: lightgreen">Yes</td>
+<td style="background-color: lightgreen">Yes</td>
+<td>No</td>
+</tr>
+
+    
 <td>201</td>
 <td>Angela Niehaus</td>
 <td>Bergvliet</td>
@@ -2897,6 +2908,17 @@ draft: false
 <td style="background-color: lightgreen">Yes</td>
 <td style="background-color: lightgreen">Yes</td>
 <td style="background-color: lightgreen">Yes</td>
+</tr>
+
+    
+<td>335</td>
+<td>Hilgardt Van Nieuwenhuyzen</td>
+<td>Worcester</td>
+<td>410E</td>
+<td>No</td>
+<td style="background-color: lightgreen">Yes</td>
+<td style="background-color: lightgreen">Yes</td>
+<td>No</td>
 </tr>
 
     
